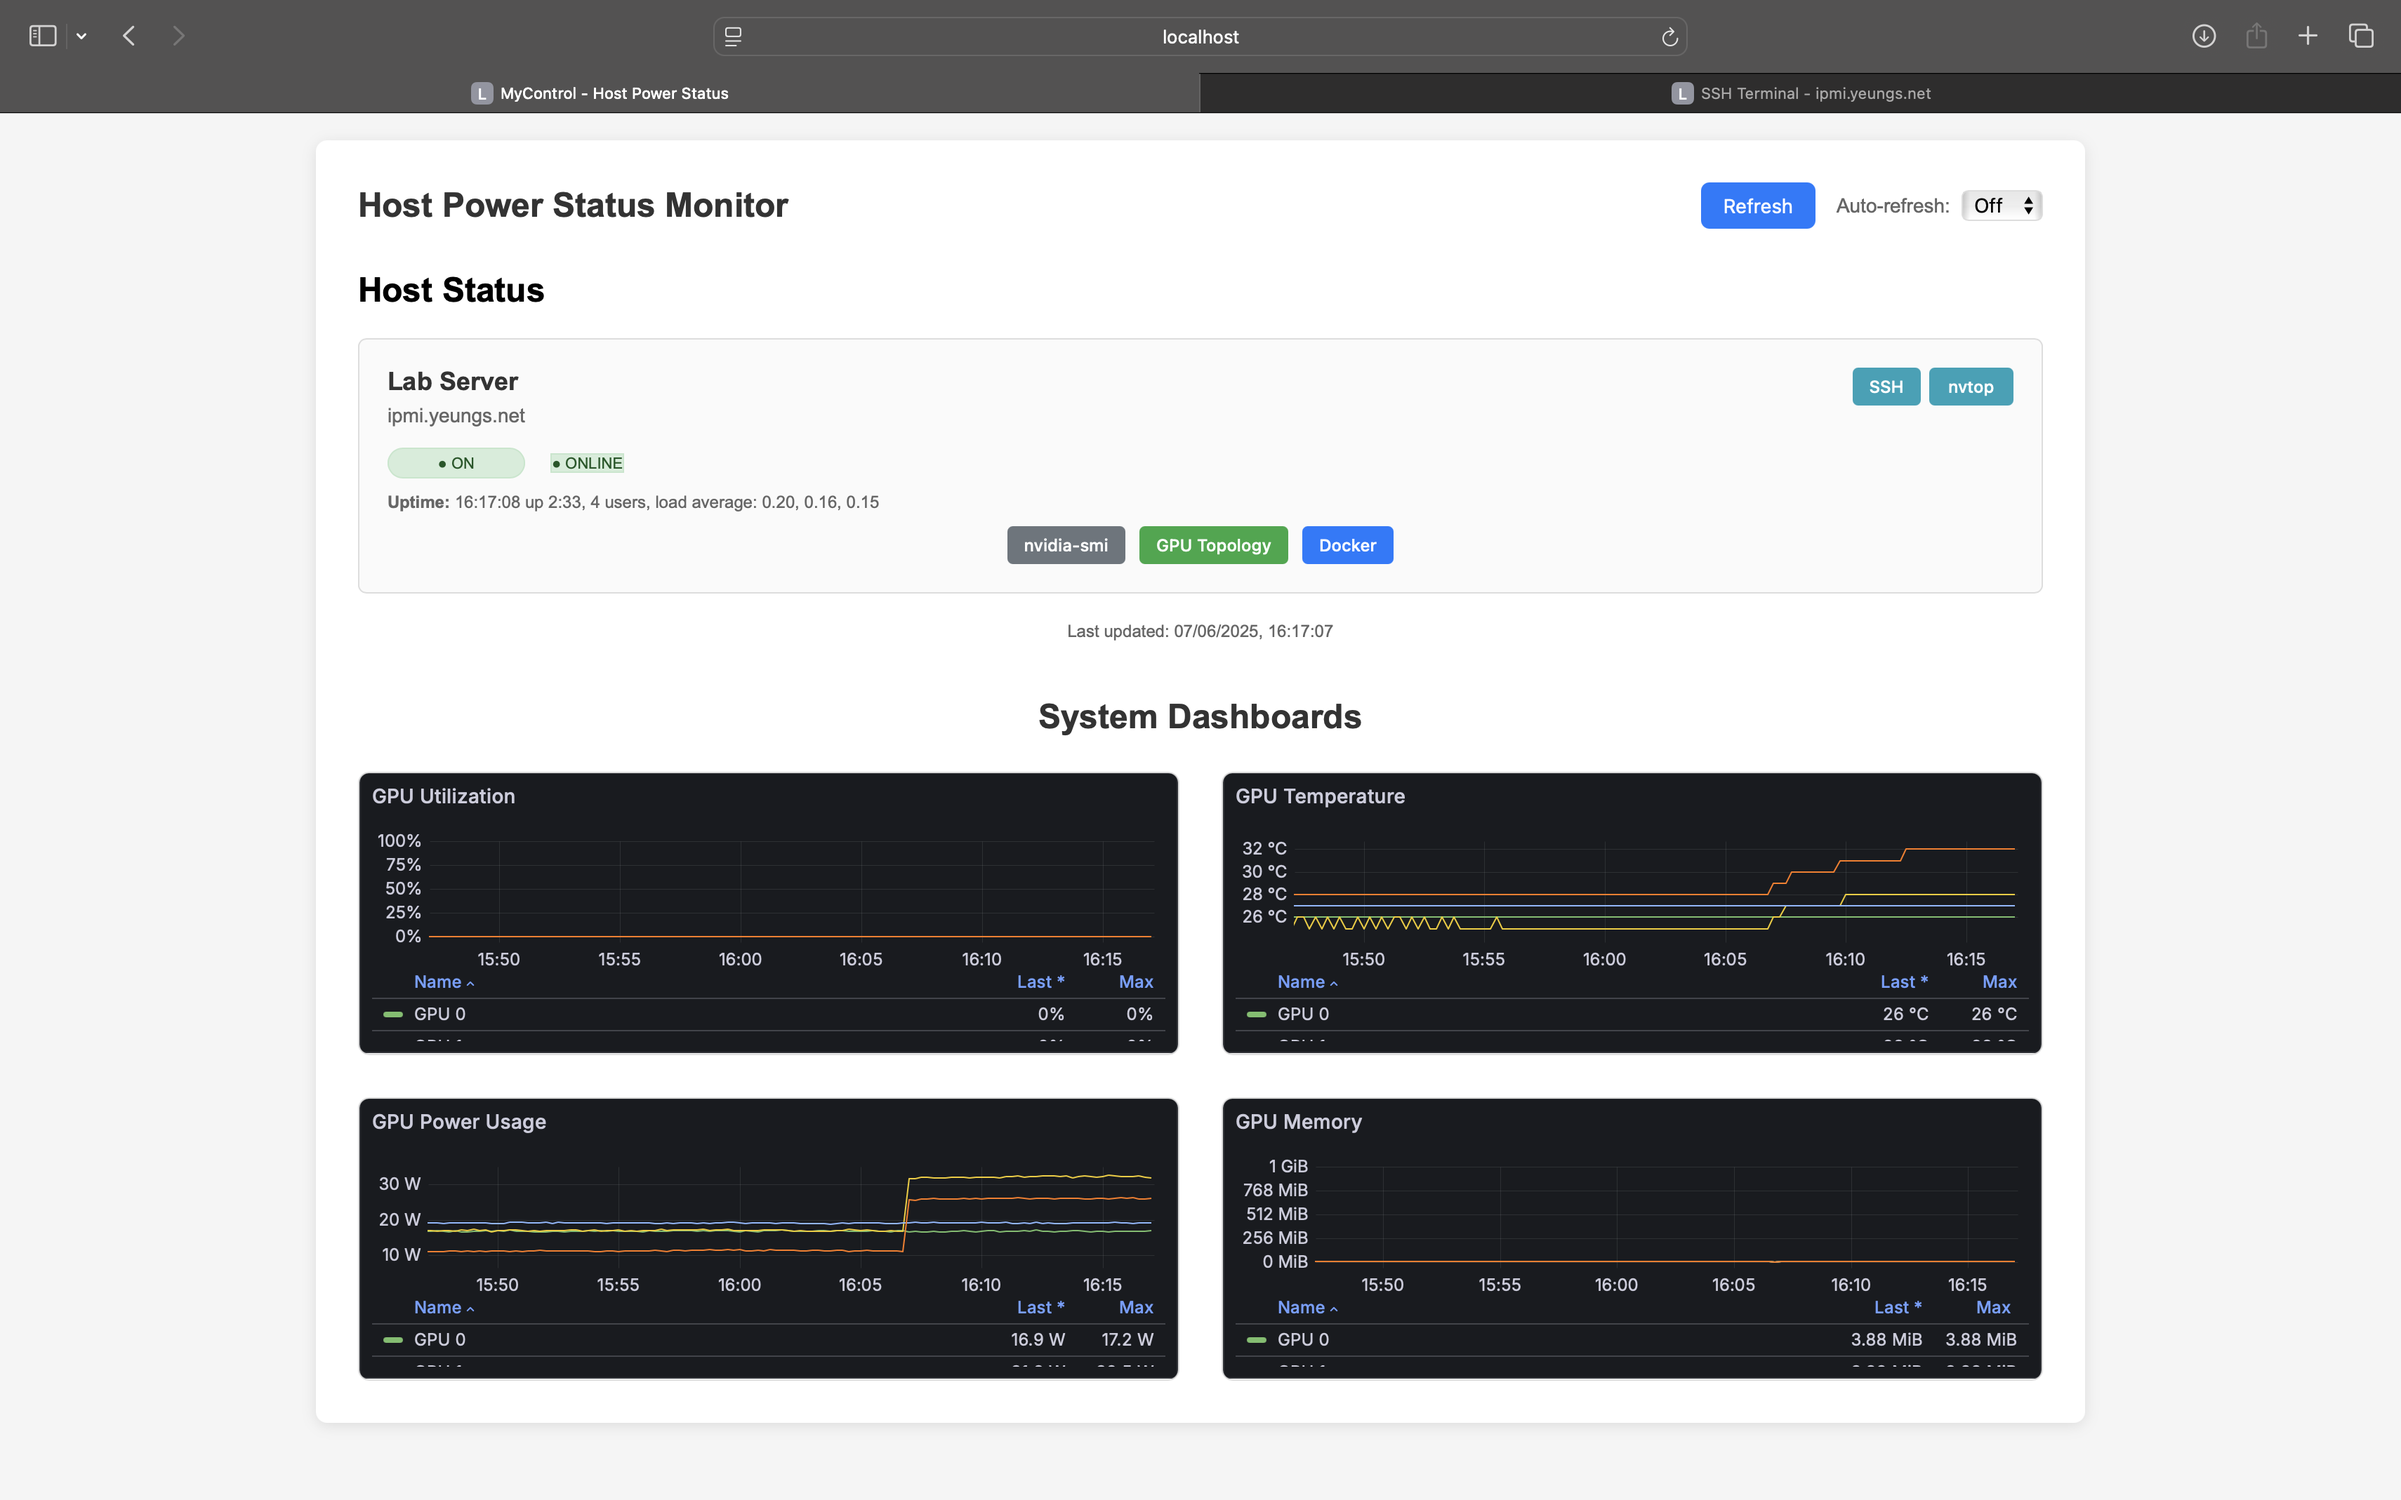
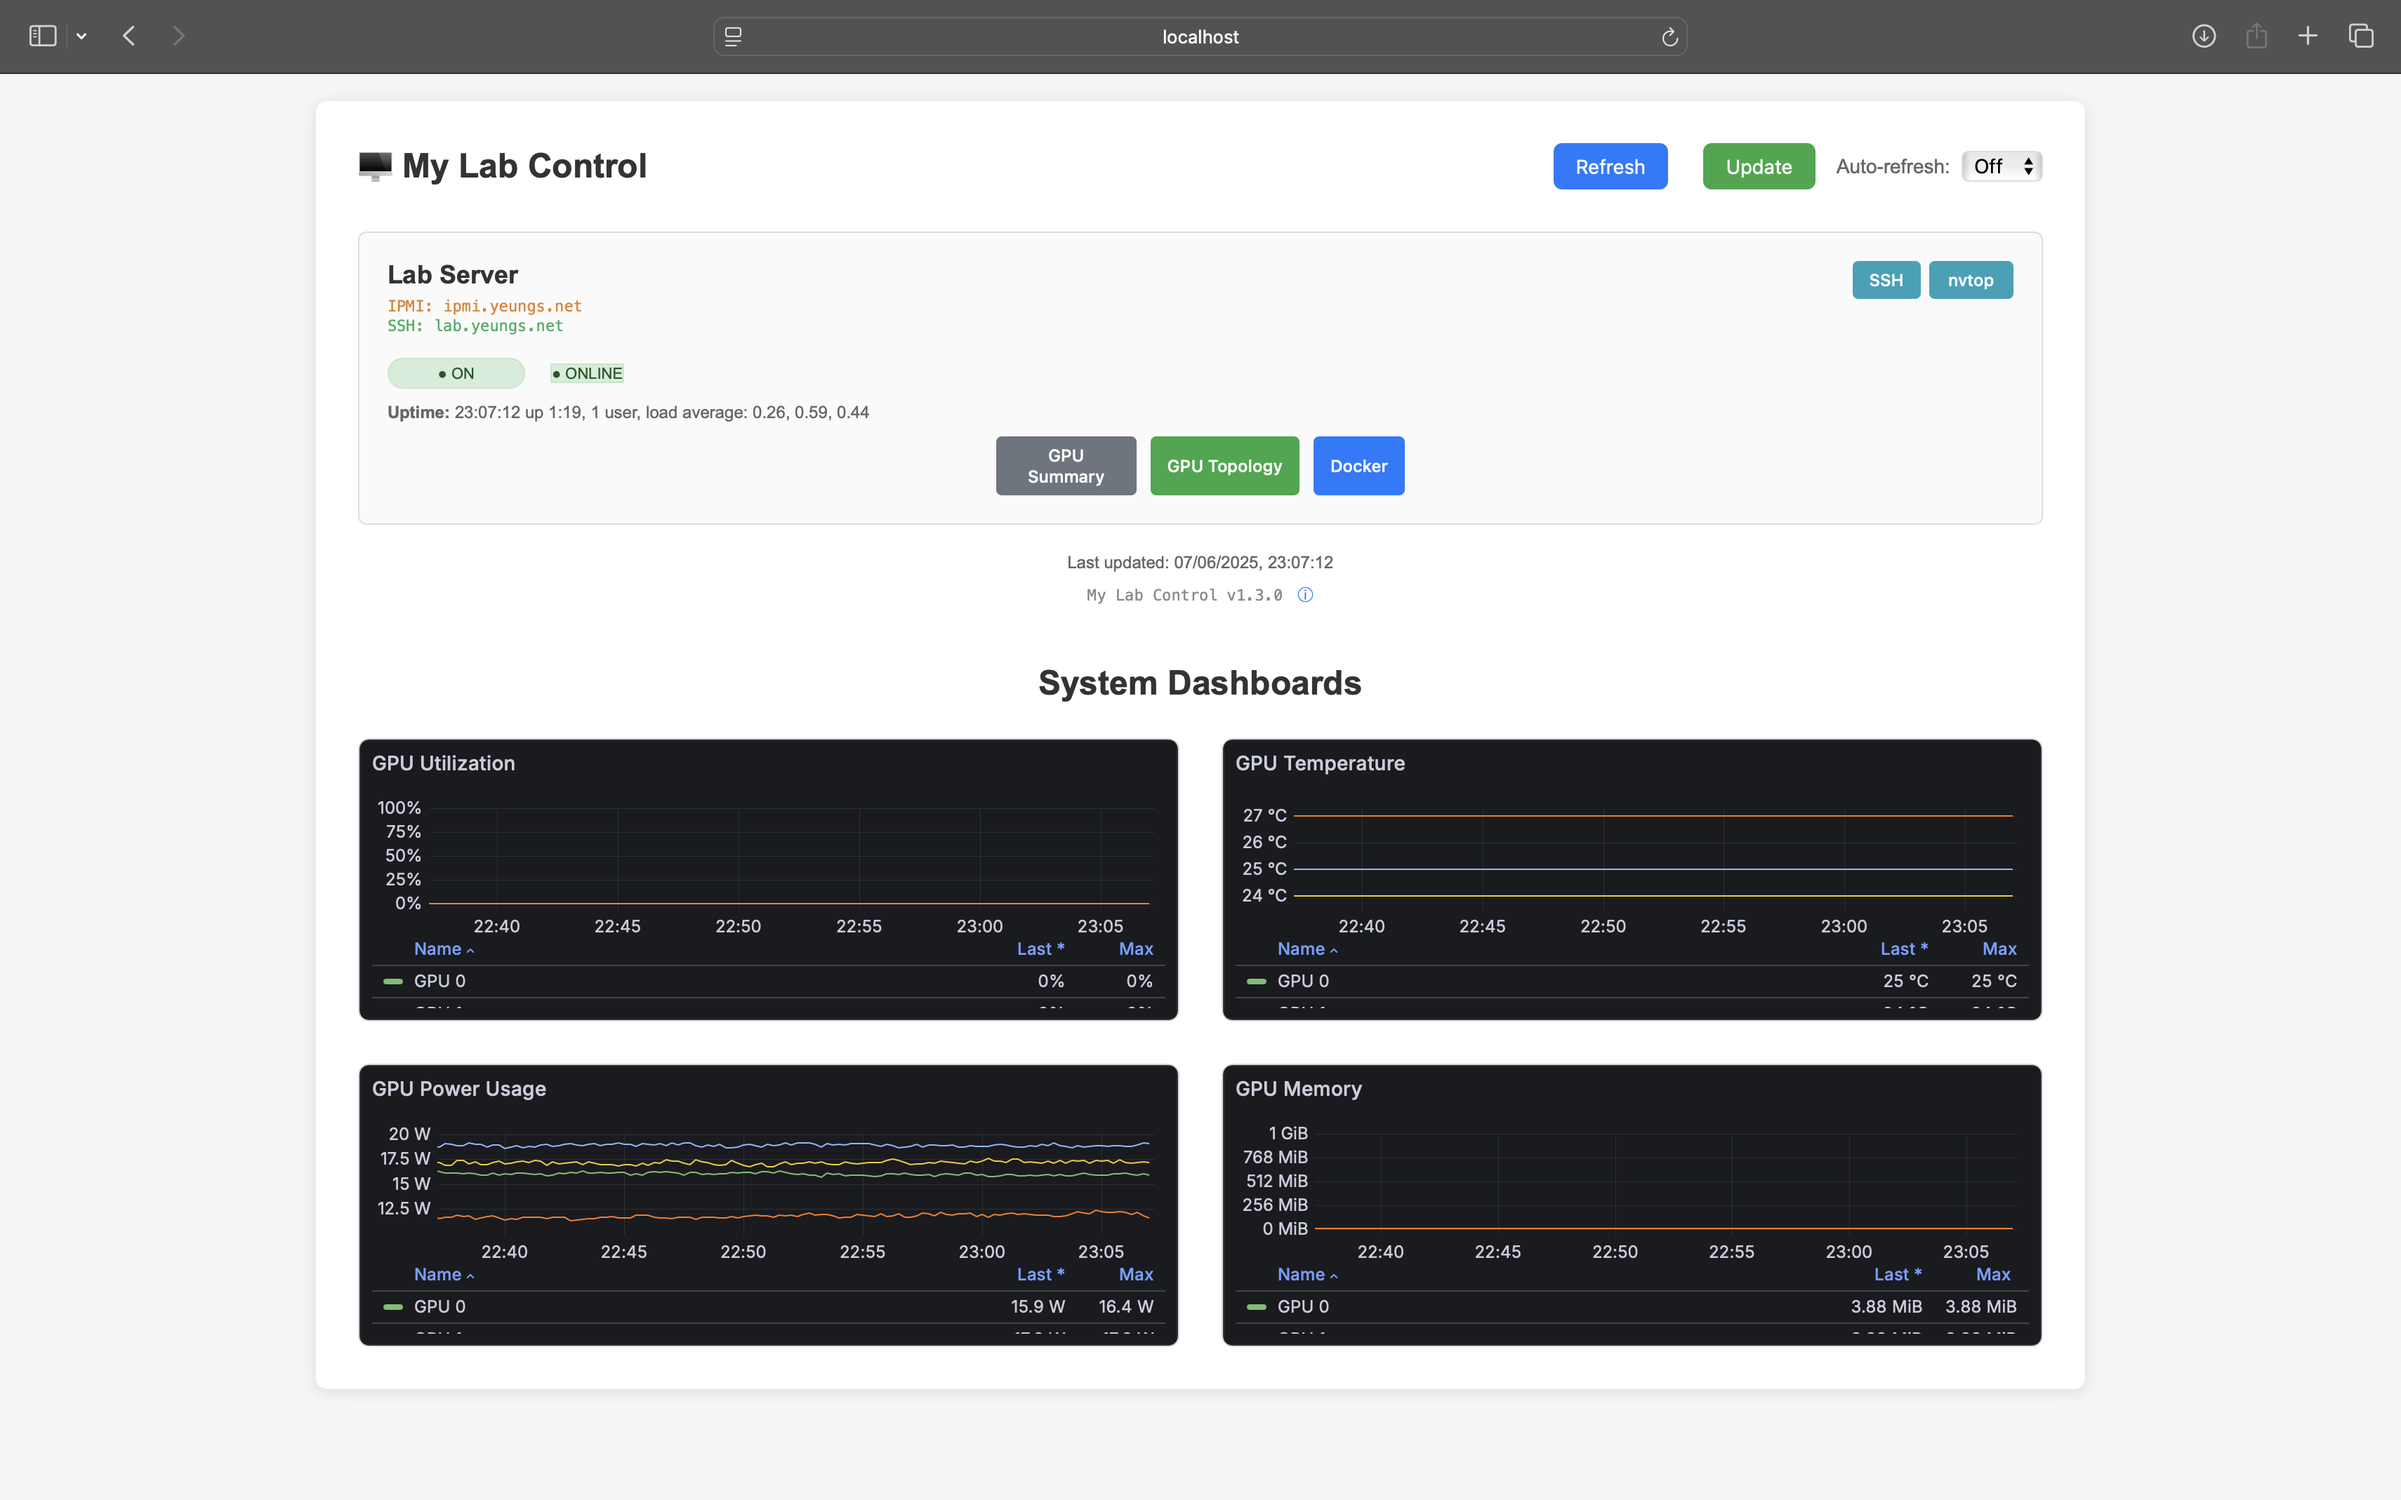
Update UI improvements and configuration defaults
- Update main dashboard screenshot with latest interface
- Change default auto-refresh from 30s to Off (0) for better user control
- Move Update button to left side of Refresh button for better layout
- Update config.json.example to reflect new defaults
- Adjust CSS margin for proper button spacing

diff --git a/templates/index.html b/templates/index.html
@@ -12,8 +12,8 @@
         <div class="header-section">
             <h1>🖥 My Lab Control</h1>
             <div class="refresh-container">
-                <button class="refresh-btn" onclick="window.location.reload()">Refresh</button>
                 <button class="update-btn" onclick="updateApplication(this)" title="Pull updates and restart if changes available">Update</button>
+                <button class="refresh-btn" onclick="window.location.reload()">Refresh</button>
                 <div class="refresh-selector">
                     <label for="refresh-interval">Auto-refresh:</label>
                     <select id="refresh-interval" onchange="updateRefreshInterval()">
@@ -22,7 +22,7 @@
                         <option value="60" {% if refresh_interval == 60 %}selected{% endif %}>1m</option>
                         <option value="120" {% if refresh_interval == 120 %}selected{% endif %}>2m</option>
                         <option value="300" {% if refresh_interval == 300 %}selected{% endif %}>5m</option>
-                        <option value="0">Off</option>
+                        <option value="0" {% if refresh_interval == 0 %}selected{% endif %}>Off</option>
                     </select>
                 </div>
             </div>

diff --git a/static/css/style.css b/static/css/style.css
@@ -257,7 +257,7 @@ h1 {
     text-decoration: none;
     text-align: center;
     min-width: 80px;
-    margin-left: 10px;
+    margin-right: 10px;
 }
 
 .update-btn:hover {

diff --git a/app.py b/app.py
@@ -146,7 +146,7 @@ def index():
             'uptime': 'Loading...',  # Will be updated via AJAX
         })
     
-    refresh_interval = config.get('refresh_interval', 30)
+    refresh_interval = config.get('refresh_interval', 0)
     
     return render_template('index.html', 
                           hosts=host_status, 
